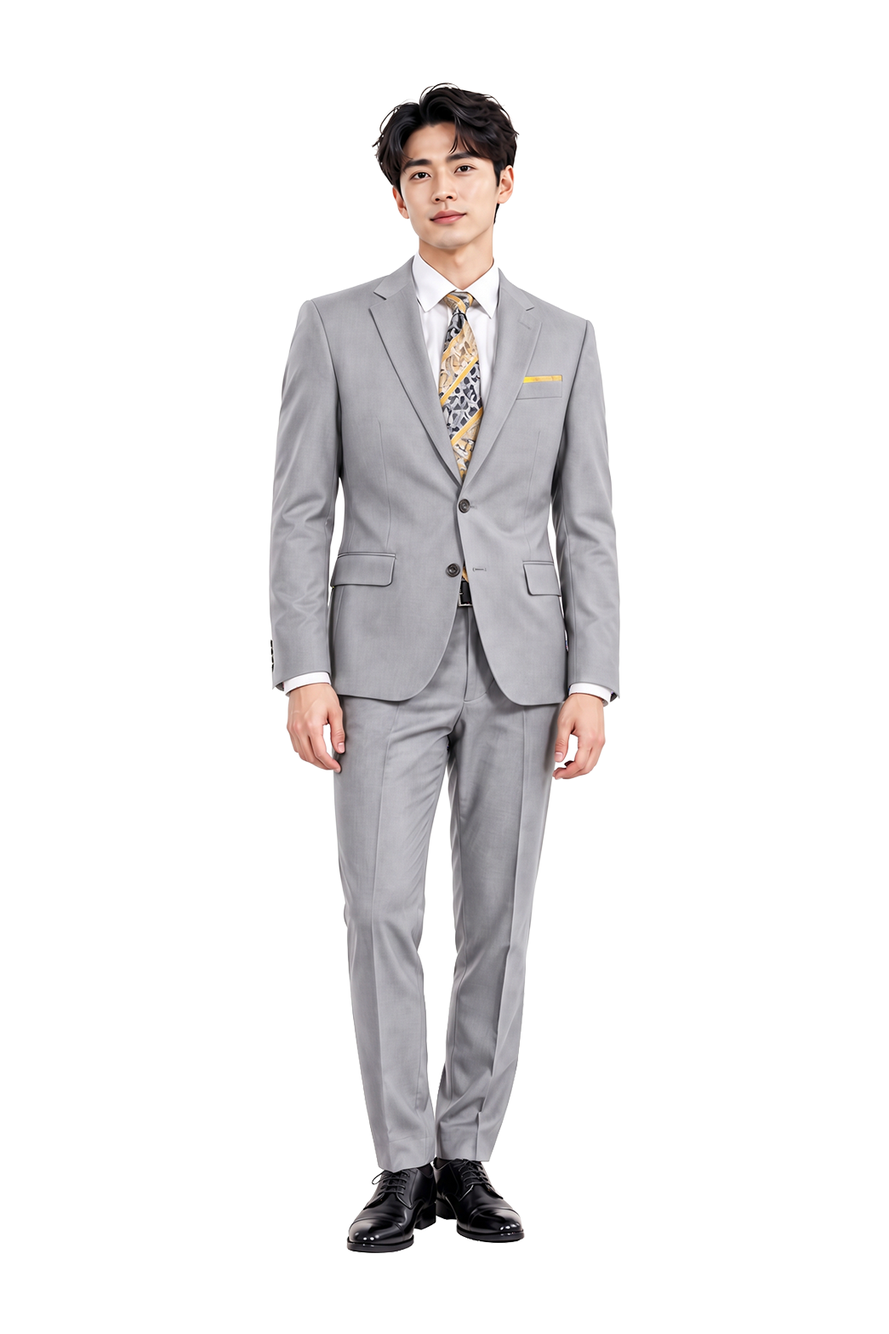
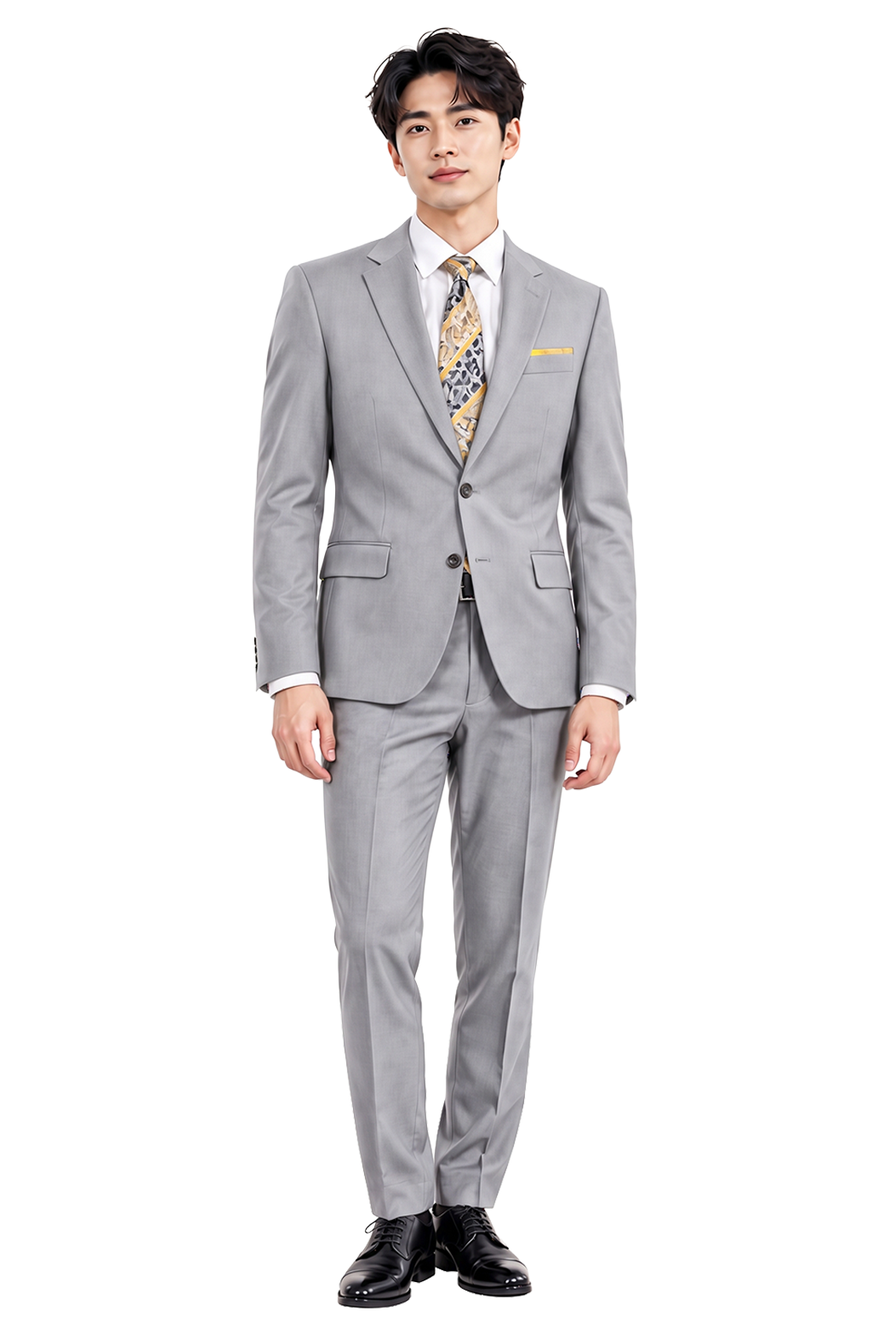
Update light gray suit photo and refresh image cache

Changed region(s): [[0.2756, 0.0, 0.7349, 0.9802]]

diff --git a/projects/index.html b/projects/index.html
@@ -9,7 +9,7 @@
 <a class="header-phone" href="tel:+886227891048"><span aria-hidden="true">☎</span> 02-2789-1048</a><a class="header-cta" href="../contact/index.html">立即詢價 <span aria-hidden="true">↗</span></a>
 </div></header><main id="main"><section class="page-intro container"><nav class="breadcrumb" aria-label="麵包屑"><a href="../index.html">首頁</a><span aria-hidden="true">/</span><span>作品案例</span></nav><p class="eyebrow">THE MAGGIO COLLECTION</p><h1>不同的需求<br>各有合適的樣子</h1><div class="intro-bottom"><p>從個人風格到團隊形象<br>在既有作品中找到你的下一個靈感</p><span class="collection-label">PERSONAL / CORPORATE / OUTERWEAR</span></div></section>
 <section class="client-section container" aria-labelledby="client-title"><div class="client-heading"><div><p class="eyebrow">OUR TRACK RECORD</p><h2 id="client-title">歷年履約實績</h2></div><div class="client-controls"><button type="button" data-client-prev aria-label="上一組履約實績">←</button><button type="button" data-client-pause aria-pressed="false">暫停輪播</button><button type="button" data-client-next aria-label="下一組履約實績">→</button></div></div><ul class="client-track" tabindex="0" aria-label="歷年履約單位標誌 可左右滑動"><li><img src="../assets/client-logos/client-01.webp" alt="國泰金控" width="410" height="206" loading="lazy"></li><li><img src="../assets/client-logos/client-02.webp" alt="國泰人壽" width="410" height="206" loading="lazy"></li><li><img src="../assets/client-logos/client-03.webp" alt="國泰產險" width="410" height="206" loading="lazy"></li><li><img src="../assets/client-logos/client-04.webp" alt="第一銀行" width="410" height="206" loading="lazy"></li><li><img src="../assets/client-logos/client-05.webp" alt="華南銀行" width="410" height="206" loading="lazy"></li><li><img src="../assets/client-logos/client-06.webp" alt="中華電信" width="410" height="206" loading="lazy"></li><li><img src="../assets/client-logos/client-07.webp" alt="彰化銀行" width="410" height="206" loading="lazy"></li><li><img src="../assets/client-logos/client-08.webp" alt="高雄銀行" width="410" height="206" loading="lazy"></li><li><img src="../assets/client-logos/client-09.webp" alt="台北富邦銀行" width="410" height="206" loading="lazy"></li><li><img src="../assets/client-logos/client-10.webp" alt="富邦證券" width="410" height="206" loading="lazy"></li><li><img src="../assets/client-logos/client-11.webp" alt="富邦建設" width="410" height="206" loading="lazy"></li><li><img src="../assets/client-logos/client-12.webp" alt="國票金控" width="410" height="206" loading="lazy"></li><li><img src="../assets/client-logos/client-13.webp" alt="台灣世曦" width="410" height="206" loading="lazy"></li><li><img src="../assets/client-logos/client-14.webp" alt="兆豐國際商業銀行" width="410" height="206" loading="lazy"></li><li><img src="../assets/client-logos/client-15.webp" alt="華南產物保險" width="410" height="206" loading="lazy"></li><li><img src="../assets/client-logos/client-16.webp" alt="華南永昌證券" width="410" height="206" loading="lazy"></li><li><img src="../assets/client-logos/client-17.webp" alt="櫃買中心" width="410" height="206" loading="lazy"></li><li><img src="../assets/client-logos/client-18.webp" alt="中小企業信用保證基金" width="410" height="206" loading="lazy"></li><li><img src="../assets/client-logos/client-19.webp" alt="統一綜合證券" width="410" height="206" loading="lazy"></li><li><img src="../assets/client-logos/client-20.webp" alt="臺灣證券交易所" width="410" height="206" loading="lazy"></li></ul><p class="client-note">資料來源為野木提供的歷年履約實績　可左右滑動瀏覽</p></section><nav class="collection-nav" aria-label="作品分類"><div class="container"><a href="#proposals">制服企劃 <span>NEW</span></a><a href="#personal">個人訂製 <span>01</span></a><a href="#corporate">企業制服 <span>02</span></a><a href="#outerwear">機能外套 <span>03</span></a></div></nav>
-<section class="section pale" id="proposals"><div class="container"><div class="section-heading"><p class="eyebrow">UNIFORM PROPOSALS</p><h2>從企劃看見團隊穿著的可能</h2><p>四份制服企劃完整收錄</p></div><p class="source-note">以下為野木提供的企劃資料，供款式與搭配參考，不代表已成交或現行供貨。原始資料中的材質、機能、品牌及服務條件，請依實際方案洽詢確認。</p><div class="brochure-list"><article class="brochure-card" id="twse-men"><div class="brochure-overview"><img class="brochure-cover" src="../assets/brochures/twse-men-1.webp" alt="證交所男生制服企劃封面" loading="lazy"><div class="brochure-copy"><p class="eyebrow">PROPOSAL / 01</p><h3>證交所男生制服企劃</h3><p class="brochure-subtitle">西裝與襯衫的完整穿搭</p><p>以深色西裝與淺色襯衫呈現專業形象收錄西裝剪裁、內裡製作、西褲細節與皮鞋搭配</p><a class="text-link" href="../assets/brochures/twse-men.pdf" target="_blank" rel="noopener">閱讀完整 PDF · 10 頁 ↗</a><a class="text-link" href="../assets/brochures/twse-men.pdf" download>下載企劃書 ↓</a></div></div><details class="brochure-details"><summary>展開逐頁瀏覽 <span>10 頁 ＋</span></summary><div class="brochure-pages"><figure><a href="../assets/brochures/twse-men-1.webp" target="_blank" rel="noopener" aria-label="開啟證交所男生制服企劃第 1 頁大圖"><img src="../assets/brochures/twse-men-1.webp" alt="證交所男生制服企劃第 1 頁原始企劃內容" loading="lazy"></a><figcaption>第 1 頁 / 10 頁 · 點圖查看大圖 ↗</figcaption></figure><figure><a href="../assets/brochures/twse-men-2.webp" target="_blank" rel="noopener" aria-label="開啟證交所男生制服企劃第 2 頁大圖"><img src="../assets/brochures/twse-men-2.webp" alt="證交所男生制服企劃第 2 頁原始企劃內容" loading="lazy"></a><figcaption>第 2 頁 / 10 頁 · 點圖查看大圖 ↗</figcaption></figure><figure><a href="../assets/brochures/twse-men-3.webp" target="_blank" rel="noopener" aria-label="開啟證交所男生制服企劃第 3 頁大圖"><img src="../assets/brochures/twse-men-3.webp" alt="證交所男生制服企劃第 3 頁原始企劃內容" loading="lazy"></a><figcaption>第 3 頁 / 10 頁 · 點圖查看大圖 ↗</figcaption></figure><figure><a href="../assets/brochures/twse-men-4.webp" target="_blank" rel="noopener" aria-label="開啟證交所男生制服企劃第 4 頁大圖"><img src="../assets/brochures/twse-men-4.webp" alt="證交所男生制服企劃第 4 頁原始企劃內容" loading="lazy"></a><figcaption>第 4 頁 / 10 頁 · 點圖查看大圖 ↗</figcaption></figure><figure><a href="../assets/brochures/twse-men-5.webp" target="_blank" rel="noopener" aria-label="開啟證交所男生制服企劃第 5 頁大圖"><img src="../assets/brochures/twse-men-5.webp" alt="證交所男生制服企劃第 5 頁原始企劃內容" loading="lazy"></a><figcaption>第 5 頁 / 10 頁 · 點圖查看大圖 ↗</figcaption></figure><figure><a href="../assets/brochures/twse-men-6.webp" target="_blank" rel="noopener" aria-label="開啟證交所男生制服企劃第 6 頁大圖"><img src="../assets/brochures/twse-men-6.webp" alt="證交所男生制服企劃第 6 頁原始企劃內容" loading="lazy"></a><figcaption>第 6 頁 / 10 頁 · 點圖查看大圖 ↗</figcaption></figure><figure><a href="../assets/brochures/twse-men-7.webp" target="_blank" rel="noopener" aria-label="開啟證交所男生制服企劃第 7 頁大圖"><img src="../assets/brochures/twse-men-7.webp" alt="證交所男生制服企劃第 7 頁原始企劃內容" loading="lazy"></a><figcaption>第 7 頁 / 10 頁 · 點圖查看大圖 ↗</figcaption></figure><figure><a href="../assets/brochures/twse-men-8.webp" target="_blank" rel="noopener" aria-label="開啟證交所男生制服企劃第 8 頁大圖"><img src="../assets/brochures/twse-men-8.webp" alt="證交所男生制服企劃第 8 頁原始企劃內容" loading="lazy"></a><figcaption>第 8 頁 / 10 頁 · 點圖查看大圖 ↗</figcaption></figure><figure><a href="../assets/brochures/twse-men-9.webp" target="_blank" rel="noopener" aria-label="開啟證交所男生制服企劃第 9 頁大圖"><img src="../assets/brochures/twse-men-9.webp" alt="證交所男生制服企劃第 9 頁原始企劃內容" loading="lazy"></a><figcaption>第 9 頁 / 10 頁 · 點圖查看大圖 ↗</figcaption></figure><figure><a href="../assets/brochures/twse-men-10.webp" target="_blank" rel="noopener" aria-label="開啟證交所男生制服企劃第 10 頁大圖"><img src="../assets/brochures/twse-men-10.webp" alt="證交所男生制服企劃第 10 頁原始企劃內容" loading="lazy"></a><figcaption>第 10 頁 / 10 頁 · 點圖查看大圖 ↗</figcaption></figure></div></details></article><article class="brochure-card" id="huanan-women"><div class="brochure-overview"><img class="brochure-cover" src="../assets/brochures/huanan-women-1.webp" alt="華南女性制服企劃封面" loading="lazy"><div class="brochure-copy"><p class="eyebrow">PROPOSAL / 02</p><h3>華南女性制服企劃</h3><p class="brochure-subtitle">紫色系的多層次制服搭配</p><p>以紫色系連結外套、背心、裙裝與褲裝呈現襯衫、針織單品及面料樣本的搭配規劃</p><a class="text-link" href="../assets/brochures/huanan-women.pdf" target="_blank" rel="noopener">閱讀完整 PDF · 4 頁 ↗</a><a class="text-link" href="../assets/brochures/huanan-women.pdf" download>下載企劃書 ↓</a></div></div><details class="brochure-details"><summary>展開逐頁瀏覽 <span>4 頁 ＋</span></summary><div class="brochure-pages"><figure><a href="../assets/brochures/huanan-women-1.webp" target="_blank" rel="noopener" aria-label="開啟華南女性制服企劃第 1 頁大圖"><img src="../assets/brochures/huanan-women-1.webp" alt="華南女性制服企劃第 1 頁原始企劃內容" loading="lazy"></a><figcaption>第 1 頁 / 4 頁 · 點圖查看大圖 ↗</figcaption></figure><figure><a href="../assets/brochures/huanan-women-2.webp" target="_blank" rel="noopener" aria-label="開啟華南女性制服企劃第 2 頁大圖"><img src="../assets/brochures/huanan-women-2.webp" alt="華南女性制服企劃第 2 頁原始企劃內容" loading="lazy"></a><figcaption>第 2 頁 / 4 頁 · 點圖查看大圖 ↗</figcaption></figure><figure><a href="../assets/brochures/huanan-women-3.webp" target="_blank" rel="noopener" aria-label="開啟華南女性制服企劃第 3 頁大圖"><img src="../assets/brochures/huanan-women-3.webp" alt="華南女性制服企劃第 3 頁原始企劃內容" loading="lazy"></a><figcaption>第 3 頁 / 4 頁 · 點圖查看大圖 ↗</figcaption></figure><figure><a href="../assets/brochures/huanan-women-4.webp" target="_blank" rel="noopener" aria-label="開啟華南女性制服企劃第 4 頁大圖"><img src="../assets/brochures/huanan-women-4.webp" alt="華南女性制服企劃第 4 頁原始企劃內容" loading="lazy"></a><figcaption>第 4 頁 / 4 頁 · 點圖查看大圖 ↗</figcaption></figure></div></details></article><article class="brochure-card" id="huanan-men"><div class="brochure-overview"><img class="brochure-cover" src="../assets/brochures/huanan-men-1.webp" alt="華南男性制服企劃封面" loading="lazy"><div class="brochure-copy"><p class="eyebrow">PROPOSAL / 03</p><h3>華南男性制服企劃</h3><p class="brochure-subtitle">從西裝到針織的團隊形象</p><p>以深藍西裝搭配淺色襯衫延伸背心與針織單品並收錄面料與製作細節</p><a class="text-link" href="../assets/brochures/huanan-men.pdf" target="_blank" rel="noopener">閱讀完整 PDF · 4 頁 ↗</a><a class="text-link" href="../assets/brochures/huanan-men.pdf" download>下載企劃書 ↓</a></div></div><details class="brochure-details"><summary>展開逐頁瀏覽 <span>4 頁 ＋</span></summary><div class="brochure-pages"><figure><a href="../assets/brochures/huanan-men-1.webp" target="_blank" rel="noopener" aria-label="開啟華南男性制服企劃第 1 頁大圖"><img src="../assets/brochures/huanan-men-1.webp" alt="華南男性制服企劃第 1 頁原始企劃內容" loading="lazy"></a><figcaption>第 1 頁 / 4 頁 · 點圖查看大圖 ↗</figcaption></figure><figure><a href="../assets/brochures/huanan-men-2.webp" target="_blank" rel="noopener" aria-label="開啟華南男性制服企劃第 2 頁大圖"><img src="../assets/brochures/huanan-men-2.webp" alt="華南男性制服企劃第 2 頁原始企劃內容" loading="lazy"></a><figcaption>第 2 頁 / 4 頁 · 點圖查看大圖 ↗</figcaption></figure><figure><a href="../assets/brochures/huanan-men-3.webp" target="_blank" rel="noopener" aria-label="開啟華南男性制服企劃第 3 頁大圖"><img src="../assets/brochures/huanan-men-3.webp" alt="華南男性制服企劃第 3 頁原始企劃內容" loading="lazy"></a><figcaption>第 3 頁 / 4 頁 · 點圖查看大圖 ↗</figcaption></figure><figure><a href="../assets/brochures/huanan-men-4.webp" target="_blank" rel="noopener" aria-label="開啟華南男性制服企劃第 4 頁大圖"><img src="../assets/brochures/huanan-men-4.webp" alt="華南男性制服企劃第 4 頁原始企劃內容" loading="lazy"></a><figcaption>第 4 頁 / 4 頁 · 點圖查看大圖 ↗</figcaption></figure></div></details></article><article class="brochure-card" id="twse-women"><div class="brochure-overview"><img class="brochure-cover" src="../assets/brochures/twse-women-1.webp" alt="證交所女生休閒服企劃封面" loading="lazy"><div class="brochure-copy"><p class="eyebrow">PROPOSAL / 04</p><h3>證交所女生休閒服企劃</h3><p class="brochure-subtitle">正式工作以外的穿著選擇</p><p>收錄兩件式外套、軟殼外套、牛仔外套與休閒褲呈現不同季節及工作情境的穿搭方向</p><a class="text-link" href="../assets/brochures/twse-women.pdf" target="_blank" rel="noopener">閱讀完整 PDF · 10 頁 ↗</a><a class="text-link" href="../assets/brochures/twse-women.pdf" download>下載企劃書 ↓</a></div></div><details class="brochure-details"><summary>展開逐頁瀏覽 <span>10 頁 ＋</span></summary><div class="brochure-pages"><figure><a href="../assets/brochures/twse-women-1.webp" target="_blank" rel="noopener" aria-label="開啟證交所女生休閒服企劃第 1 頁大圖"><img src="../assets/brochures/twse-women-1.webp" alt="證交所女生休閒服企劃第 1 頁原始企劃內容" loading="lazy"></a><figcaption>第 1 頁 / 10 頁 · 點圖查看大圖 ↗</figcaption></figure><figure><a href="../assets/brochures/twse-women-2.webp" target="_blank" rel="noopener" aria-label="開啟證交所女生休閒服企劃第 2 頁大圖"><img src="../assets/brochures/twse-women-2.webp" alt="證交所女生休閒服企劃第 2 頁原始企劃內容" loading="lazy"></a><figcaption>第 2 頁 / 10 頁 · 點圖查看大圖 ↗</figcaption></figure><figure><a href="../assets/brochures/twse-women-3.webp" target="_blank" rel="noopener" aria-label="開啟證交所女生休閒服企劃第 3 頁大圖"><img src="../assets/brochures/twse-women-3.webp" alt="證交所女生休閒服企劃第 3 頁原始企劃內容" loading="lazy"></a><figcaption>第 3 頁 / 10 頁 · 點圖查看大圖 ↗</figcaption></figure><figure><a href="../assets/brochures/twse-women-4.webp" target="_blank" rel="noopener" aria-label="開啟證交所女生休閒服企劃第 4 頁大圖"><img src="../assets/brochures/twse-women-4.webp" alt="證交所女生休閒服企劃第 4 頁原始企劃內容" loading="lazy"></a><figcaption>第 4 頁 / 10 頁 · 點圖查看大圖 ↗</figcaption></figure><figure><a href="../assets/brochures/twse-women-5.webp" target="_blank" rel="noopener" aria-label="開啟證交所女生休閒服企劃第 5 頁大圖"><img src="../assets/brochures/twse-women-5.webp" alt="證交所女生休閒服企劃第 5 頁原始企劃內容" loading="lazy"></a><figcaption>第 5 頁 / 10 頁 · 點圖查看大圖 ↗</figcaption></figure><figure><a href="../assets/brochures/twse-women-6.webp" target="_blank" rel="noopener" aria-label="開啟證交所女生休閒服企劃第 6 頁大圖"><img src="../assets/brochures/twse-women-6.webp" alt="證交所女生休閒服企劃第 6 頁原始企劃內容" loading="lazy"></a><figcaption>第 6 頁 / 10 頁 · 點圖查看大圖 ↗</figcaption></figure><figure><a href="../assets/brochures/twse-women-7.webp" target="_blank" rel="noopener" aria-label="開啟證交所女生休閒服企劃第 7 頁大圖"><img src="../assets/brochures/twse-women-7.webp" alt="證交所女生休閒服企劃第 7 頁原始企劃內容" loading="lazy"></a><figcaption>第 7 頁 / 10 頁 · 點圖查看大圖 ↗</figcaption></figure><figure><a href="../assets/brochures/twse-women-8.webp" target="_blank" rel="noopener" aria-label="開啟證交所女生休閒服企劃第 8 頁大圖"><img src="../assets/brochures/twse-women-8.webp" alt="證交所女生休閒服企劃第 8 頁原始企劃內容" loading="lazy"></a><figcaption>第 8 頁 / 10 頁 · 點圖查看大圖 ↗</figcaption></figure><figure><a href="../assets/brochures/twse-women-9.webp" target="_blank" rel="noopener" aria-label="開啟證交所女生休閒服企劃第 9 頁大圖"><img src="../assets/brochures/twse-women-9.webp" alt="證交所女生休閒服企劃第 9 頁原始企劃內容" loading="lazy"></a><figcaption>第 9 頁 / 10 頁 · 點圖查看大圖 ↗</figcaption></figure><figure><a href="../assets/brochures/twse-women-10.webp" target="_blank" rel="noopener" aria-label="開啟證交所女生休閒服企劃第 10 頁大圖"><img src="../assets/brochures/twse-women-10.webp" alt="證交所女生休閒服企劃第 10 頁原始企劃內容" loading="lazy"></a><figcaption>第 10 頁 / 10 頁 · 點圖查看大圖 ↗</figcaption></figure></div></details></article></div></div></section><section class="section container" id="personal"><div class="collection-heading"><span class="collection-number">01</span><div class="section-heading"><p class="eyebrow">PERSONAL TAILORING</p><h2>穿出自己的風格</h2></div><a class="text-link" href="../bespoke/index.html">個人訂製服務 ↗</a></div><div class="project-grid"><article class="project-card"><a class="project-photo" href="../contact/index.html?service=bespoke" aria-label="詢問淺灰西服"><img src="../assets/images/light gray.webp" alt="淺灰西服" class="" loading="lazy" decoding="async" width="1200" height="900"><span class="project-hover">詢問此類款式 ↗</span></a><div class="project-caption"><p class="eyebrow">PERSONAL 01</p><h3>淺灰西服</h3><p>輕盈色調與俐落輪廓的穿著參考</p></div></article><article class="project-card"><a class="project-photo" href="../contact/index.html?service=bespoke" aria-label="詢問經典深色西服"><img src="../assets/images/original-03.webp" alt="經典深色西服" class="" loading="lazy" decoding="async" width="1200" height="900"><span class="project-hover">詢問此類款式 ↗</span></a><div class="project-caption"><p class="eyebrow">PERSONAL 02</p><h3>經典深色西服</h3><p>適合正式場合的穩重色系</p></div></article><article class="project-card"><a class="project-photo" href="../contact/index.html?service=bespoke" aria-label="詢問正式禮服搭配"><img src="../assets/images/original-04.webp" alt="正式禮服搭配" class="" loading="lazy" decoding="async" width="1200" height="900"><span class="project-hover">詢問此類款式 ↗</span></a><div class="project-caption"><p class="eyebrow">PERSONAL 03</p><h3>正式禮服搭配</h3><p>以領結與細節搭配回應重要時刻</p></div></article></div></section>
+<section class="section pale" id="proposals"><div class="container"><div class="section-heading"><p class="eyebrow">UNIFORM PROPOSALS</p><h2>從企劃看見團隊穿著的可能</h2><p>四份制服企劃完整收錄</p></div><p class="source-note">以下為野木提供的企劃資料，供款式與搭配參考，不代表已成交或現行供貨。原始資料中的材質、機能、品牌及服務條件，請依實際方案洽詢確認。</p><div class="brochure-list"><article class="brochure-card" id="twse-men"><div class="brochure-overview"><img class="brochure-cover" src="../assets/brochures/twse-men-1.webp" alt="證交所男生制服企劃封面" loading="lazy"><div class="brochure-copy"><p class="eyebrow">PROPOSAL / 01</p><h3>證交所男生制服企劃</h3><p class="brochure-subtitle">西裝與襯衫的完整穿搭</p><p>以深色西裝與淺色襯衫呈現專業形象收錄西裝剪裁、內裡製作、西褲細節與皮鞋搭配</p><a class="text-link" href="../assets/brochures/twse-men.pdf" target="_blank" rel="noopener">閱讀完整 PDF · 10 頁 ↗</a><a class="text-link" href="../assets/brochures/twse-men.pdf" download>下載企劃書 ↓</a></div></div><details class="brochure-details"><summary>展開逐頁瀏覽 <span>10 頁 ＋</span></summary><div class="brochure-pages"><figure><a href="../assets/brochures/twse-men-1.webp" target="_blank" rel="noopener" aria-label="開啟證交所男生制服企劃第 1 頁大圖"><img src="../assets/brochures/twse-men-1.webp" alt="證交所男生制服企劃第 1 頁原始企劃內容" loading="lazy"></a><figcaption>第 1 頁 / 10 頁 · 點圖查看大圖 ↗</figcaption></figure><figure><a href="../assets/brochures/twse-men-2.webp" target="_blank" rel="noopener" aria-label="開啟證交所男生制服企劃第 2 頁大圖"><img src="../assets/brochures/twse-men-2.webp" alt="證交所男生制服企劃第 2 頁原始企劃內容" loading="lazy"></a><figcaption>第 2 頁 / 10 頁 · 點圖查看大圖 ↗</figcaption></figure><figure><a href="../assets/brochures/twse-men-3.webp" target="_blank" rel="noopener" aria-label="開啟證交所男生制服企劃第 3 頁大圖"><img src="../assets/brochures/twse-men-3.webp" alt="證交所男生制服企劃第 3 頁原始企劃內容" loading="lazy"></a><figcaption>第 3 頁 / 10 頁 · 點圖查看大圖 ↗</figcaption></figure><figure><a href="../assets/brochures/twse-men-4.webp" target="_blank" rel="noopener" aria-label="開啟證交所男生制服企劃第 4 頁大圖"><img src="../assets/brochures/twse-men-4.webp" alt="證交所男生制服企劃第 4 頁原始企劃內容" loading="lazy"></a><figcaption>第 4 頁 / 10 頁 · 點圖查看大圖 ↗</figcaption></figure><figure><a href="../assets/brochures/twse-men-5.webp" target="_blank" rel="noopener" aria-label="開啟證交所男生制服企劃第 5 頁大圖"><img src="../assets/brochures/twse-men-5.webp" alt="證交所男生制服企劃第 5 頁原始企劃內容" loading="lazy"></a><figcaption>第 5 頁 / 10 頁 · 點圖查看大圖 ↗</figcaption></figure><figure><a href="../assets/brochures/twse-men-6.webp" target="_blank" rel="noopener" aria-label="開啟證交所男生制服企劃第 6 頁大圖"><img src="../assets/brochures/twse-men-6.webp" alt="證交所男生制服企劃第 6 頁原始企劃內容" loading="lazy"></a><figcaption>第 6 頁 / 10 頁 · 點圖查看大圖 ↗</figcaption></figure><figure><a href="../assets/brochures/twse-men-7.webp" target="_blank" rel="noopener" aria-label="開啟證交所男生制服企劃第 7 頁大圖"><img src="../assets/brochures/twse-men-7.webp" alt="證交所男生制服企劃第 7 頁原始企劃內容" loading="lazy"></a><figcaption>第 7 頁 / 10 頁 · 點圖查看大圖 ↗</figcaption></figure><figure><a href="../assets/brochures/twse-men-8.webp" target="_blank" rel="noopener" aria-label="開啟證交所男生制服企劃第 8 頁大圖"><img src="../assets/brochures/twse-men-8.webp" alt="證交所男生制服企劃第 8 頁原始企劃內容" loading="lazy"></a><figcaption>第 8 頁 / 10 頁 · 點圖查看大圖 ↗</figcaption></figure><figure><a href="../assets/brochures/twse-men-9.webp" target="_blank" rel="noopener" aria-label="開啟證交所男生制服企劃第 9 頁大圖"><img src="../assets/brochures/twse-men-9.webp" alt="證交所男生制服企劃第 9 頁原始企劃內容" loading="lazy"></a><figcaption>第 9 頁 / 10 頁 · 點圖查看大圖 ↗</figcaption></figure><figure><a href="../assets/brochures/twse-men-10.webp" target="_blank" rel="noopener" aria-label="開啟證交所男生制服企劃第 10 頁大圖"><img src="../assets/brochures/twse-men-10.webp" alt="證交所男生制服企劃第 10 頁原始企劃內容" loading="lazy"></a><figcaption>第 10 頁 / 10 頁 · 點圖查看大圖 ↗</figcaption></figure></div></details></article><article class="brochure-card" id="huanan-women"><div class="brochure-overview"><img class="brochure-cover" src="../assets/brochures/huanan-women-1.webp" alt="華南女性制服企劃封面" loading="lazy"><div class="brochure-copy"><p class="eyebrow">PROPOSAL / 02</p><h3>華南女性制服企劃</h3><p class="brochure-subtitle">紫色系的多層次制服搭配</p><p>以紫色系連結外套、背心、裙裝與褲裝呈現襯衫、針織單品及面料樣本的搭配規劃</p><a class="text-link" href="../assets/brochures/huanan-women.pdf" target="_blank" rel="noopener">閱讀完整 PDF · 4 頁 ↗</a><a class="text-link" href="../assets/brochures/huanan-women.pdf" download>下載企劃書 ↓</a></div></div><details class="brochure-details"><summary>展開逐頁瀏覽 <span>4 頁 ＋</span></summary><div class="brochure-pages"><figure><a href="../assets/brochures/huanan-women-1.webp" target="_blank" rel="noopener" aria-label="開啟華南女性制服企劃第 1 頁大圖"><img src="../assets/brochures/huanan-women-1.webp" alt="華南女性制服企劃第 1 頁原始企劃內容" loading="lazy"></a><figcaption>第 1 頁 / 4 頁 · 點圖查看大圖 ↗</figcaption></figure><figure><a href="../assets/brochures/huanan-women-2.webp" target="_blank" rel="noopener" aria-label="開啟華南女性制服企劃第 2 頁大圖"><img src="../assets/brochures/huanan-women-2.webp" alt="華南女性制服企劃第 2 頁原始企劃內容" loading="lazy"></a><figcaption>第 2 頁 / 4 頁 · 點圖查看大圖 ↗</figcaption></figure><figure><a href="../assets/brochures/huanan-women-3.webp" target="_blank" rel="noopener" aria-label="開啟華南女性制服企劃第 3 頁大圖"><img src="../assets/brochures/huanan-women-3.webp" alt="華南女性制服企劃第 3 頁原始企劃內容" loading="lazy"></a><figcaption>第 3 頁 / 4 頁 · 點圖查看大圖 ↗</figcaption></figure><figure><a href="../assets/brochures/huanan-women-4.webp" target="_blank" rel="noopener" aria-label="開啟華南女性制服企劃第 4 頁大圖"><img src="../assets/brochures/huanan-women-4.webp" alt="華南女性制服企劃第 4 頁原始企劃內容" loading="lazy"></a><figcaption>第 4 頁 / 4 頁 · 點圖查看大圖 ↗</figcaption></figure></div></details></article><article class="brochure-card" id="huanan-men"><div class="brochure-overview"><img class="brochure-cover" src="../assets/brochures/huanan-men-1.webp" alt="華南男性制服企劃封面" loading="lazy"><div class="brochure-copy"><p class="eyebrow">PROPOSAL / 03</p><h3>華南男性制服企劃</h3><p class="brochure-subtitle">從西裝到針織的團隊形象</p><p>以深藍西裝搭配淺色襯衫延伸背心與針織單品並收錄面料與製作細節</p><a class="text-link" href="../assets/brochures/huanan-men.pdf" target="_blank" rel="noopener">閱讀完整 PDF · 4 頁 ↗</a><a class="text-link" href="../assets/brochures/huanan-men.pdf" download>下載企劃書 ↓</a></div></div><details class="brochure-details"><summary>展開逐頁瀏覽 <span>4 頁 ＋</span></summary><div class="brochure-pages"><figure><a href="../assets/brochures/huanan-men-1.webp" target="_blank" rel="noopener" aria-label="開啟華南男性制服企劃第 1 頁大圖"><img src="../assets/brochures/huanan-men-1.webp" alt="華南男性制服企劃第 1 頁原始企劃內容" loading="lazy"></a><figcaption>第 1 頁 / 4 頁 · 點圖查看大圖 ↗</figcaption></figure><figure><a href="../assets/brochures/huanan-men-2.webp" target="_blank" rel="noopener" aria-label="開啟華南男性制服企劃第 2 頁大圖"><img src="../assets/brochures/huanan-men-2.webp" alt="華南男性制服企劃第 2 頁原始企劃內容" loading="lazy"></a><figcaption>第 2 頁 / 4 頁 · 點圖查看大圖 ↗</figcaption></figure><figure><a href="../assets/brochures/huanan-men-3.webp" target="_blank" rel="noopener" aria-label="開啟華南男性制服企劃第 3 頁大圖"><img src="../assets/brochures/huanan-men-3.webp" alt="華南男性制服企劃第 3 頁原始企劃內容" loading="lazy"></a><figcaption>第 3 頁 / 4 頁 · 點圖查看大圖 ↗</figcaption></figure><figure><a href="../assets/brochures/huanan-men-4.webp" target="_blank" rel="noopener" aria-label="開啟華南男性制服企劃第 4 頁大圖"><img src="../assets/brochures/huanan-men-4.webp" alt="華南男性制服企劃第 4 頁原始企劃內容" loading="lazy"></a><figcaption>第 4 頁 / 4 頁 · 點圖查看大圖 ↗</figcaption></figure></div></details></article><article class="brochure-card" id="twse-women"><div class="brochure-overview"><img class="brochure-cover" src="../assets/brochures/twse-women-1.webp" alt="證交所女生休閒服企劃封面" loading="lazy"><div class="brochure-copy"><p class="eyebrow">PROPOSAL / 04</p><h3>證交所女生休閒服企劃</h3><p class="brochure-subtitle">正式工作以外的穿著選擇</p><p>收錄兩件式外套、軟殼外套、牛仔外套與休閒褲呈現不同季節及工作情境的穿搭方向</p><a class="text-link" href="../assets/brochures/twse-women.pdf" target="_blank" rel="noopener">閱讀完整 PDF · 10 頁 ↗</a><a class="text-link" href="../assets/brochures/twse-women.pdf" download>下載企劃書 ↓</a></div></div><details class="brochure-details"><summary>展開逐頁瀏覽 <span>10 頁 ＋</span></summary><div class="brochure-pages"><figure><a href="../assets/brochures/twse-women-1.webp" target="_blank" rel="noopener" aria-label="開啟證交所女生休閒服企劃第 1 頁大圖"><img src="../assets/brochures/twse-women-1.webp" alt="證交所女生休閒服企劃第 1 頁原始企劃內容" loading="lazy"></a><figcaption>第 1 頁 / 10 頁 · 點圖查看大圖 ↗</figcaption></figure><figure><a href="../assets/brochures/twse-women-2.webp" target="_blank" rel="noopener" aria-label="開啟證交所女生休閒服企劃第 2 頁大圖"><img src="../assets/brochures/twse-women-2.webp" alt="證交所女生休閒服企劃第 2 頁原始企劃內容" loading="lazy"></a><figcaption>第 2 頁 / 10 頁 · 點圖查看大圖 ↗</figcaption></figure><figure><a href="../assets/brochures/twse-women-3.webp" target="_blank" rel="noopener" aria-label="開啟證交所女生休閒服企劃第 3 頁大圖"><img src="../assets/brochures/twse-women-3.webp" alt="證交所女生休閒服企劃第 3 頁原始企劃內容" loading="lazy"></a><figcaption>第 3 頁 / 10 頁 · 點圖查看大圖 ↗</figcaption></figure><figure><a href="../assets/brochures/twse-women-4.webp" target="_blank" rel="noopener" aria-label="開啟證交所女生休閒服企劃第 4 頁大圖"><img src="../assets/brochures/twse-women-4.webp" alt="證交所女生休閒服企劃第 4 頁原始企劃內容" loading="lazy"></a><figcaption>第 4 頁 / 10 頁 · 點圖查看大圖 ↗</figcaption></figure><figure><a href="../assets/brochures/twse-women-5.webp" target="_blank" rel="noopener" aria-label="開啟證交所女生休閒服企劃第 5 頁大圖"><img src="../assets/brochures/twse-women-5.webp" alt="證交所女生休閒服企劃第 5 頁原始企劃內容" loading="lazy"></a><figcaption>第 5 頁 / 10 頁 · 點圖查看大圖 ↗</figcaption></figure><figure><a href="../assets/brochures/twse-women-6.webp" target="_blank" rel="noopener" aria-label="開啟證交所女生休閒服企劃第 6 頁大圖"><img src="../assets/brochures/twse-women-6.webp" alt="證交所女生休閒服企劃第 6 頁原始企劃內容" loading="lazy"></a><figcaption>第 6 頁 / 10 頁 · 點圖查看大圖 ↗</figcaption></figure><figure><a href="../assets/brochures/twse-women-7.webp" target="_blank" rel="noopener" aria-label="開啟證交所女生休閒服企劃第 7 頁大圖"><img src="../assets/brochures/twse-women-7.webp" alt="證交所女生休閒服企劃第 7 頁原始企劃內容" loading="lazy"></a><figcaption>第 7 頁 / 10 頁 · 點圖查看大圖 ↗</figcaption></figure><figure><a href="../assets/brochures/twse-women-8.webp" target="_blank" rel="noopener" aria-label="開啟證交所女生休閒服企劃第 8 頁大圖"><img src="../assets/brochures/twse-women-8.webp" alt="證交所女生休閒服企劃第 8 頁原始企劃內容" loading="lazy"></a><figcaption>第 8 頁 / 10 頁 · 點圖查看大圖 ↗</figcaption></figure><figure><a href="../assets/brochures/twse-women-9.webp" target="_blank" rel="noopener" aria-label="開啟證交所女生休閒服企劃第 9 頁大圖"><img src="../assets/brochures/twse-women-9.webp" alt="證交所女生休閒服企劃第 9 頁原始企劃內容" loading="lazy"></a><figcaption>第 9 頁 / 10 頁 · 點圖查看大圖 ↗</figcaption></figure><figure><a href="../assets/brochures/twse-women-10.webp" target="_blank" rel="noopener" aria-label="開啟證交所女生休閒服企劃第 10 頁大圖"><img src="../assets/brochures/twse-women-10.webp" alt="證交所女生休閒服企劃第 10 頁原始企劃內容" loading="lazy"></a><figcaption>第 10 頁 / 10 頁 · 點圖查看大圖 ↗</figcaption></figure></div></details></article></div></div></section><section class="section container" id="personal"><div class="collection-heading"><span class="collection-number">01</span><div class="section-heading"><p class="eyebrow">PERSONAL TAILORING</p><h2>穿出自己的風格</h2></div><a class="text-link" href="../bespoke/index.html">個人訂製服務 ↗</a></div><div class="project-grid"><article class="project-card"><a class="project-photo" href="../contact/index.html?service=bespoke" aria-label="詢問淺灰西服"><img src="../assets/images/light gray.webp?v=2281c303127d" alt="淺灰西服" class="" loading="lazy" decoding="async" width="1200" height="900"><span class="project-hover">詢問此類款式 ↗</span></a><div class="project-caption"><p class="eyebrow">PERSONAL 01</p><h3>淺灰西服</h3><p>輕盈色調與俐落輪廓的穿著參考</p></div></article><article class="project-card"><a class="project-photo" href="../contact/index.html?service=bespoke" aria-label="詢問經典深色西服"><img src="../assets/images/original-03.webp" alt="經典深色西服" class="" loading="lazy" decoding="async" width="1200" height="900"><span class="project-hover">詢問此類款式 ↗</span></a><div class="project-caption"><p class="eyebrow">PERSONAL 02</p><h3>經典深色西服</h3><p>適合正式場合的穩重色系</p></div></article><article class="project-card"><a class="project-photo" href="../contact/index.html?service=bespoke" aria-label="詢問正式禮服搭配"><img src="../assets/images/original-04.webp" alt="正式禮服搭配" class="" loading="lazy" decoding="async" width="1200" height="900"><span class="project-hover">詢問此類款式 ↗</span></a><div class="project-caption"><p class="eyebrow">PERSONAL 03</p><h3>正式禮服搭配</h3><p>以領結與細節搭配回應重要時刻</p></div></article></div></section>
 <section class="section pale" id="corporate"><div class="container"><div class="collection-heading"><span class="collection-number">02</span><div class="section-heading"><p class="eyebrow">CORPORATE UNIFORMS</p><h2>團隊形象細節一致</h2></div><a class="text-link" href="../corporate-uniforms/index.html">企業制服服務 ↗</a></div><div class="project-grid uniforms"><article class="project-card"><a class="project-photo" href="../contact/index.html?service=corporate" aria-label="詢問女士套裝"><img src="../assets/images/winter-women-02.webp" alt="女士套裝" class="" loading="lazy" decoding="async" width="1200" height="900"><span class="project-hover">詢問此類款式 ↗</span></a><div class="project-caption"><p class="eyebrow">CORPORATE 01</p><h3>女士套裝</h3><p>外套與裙裝呈現完整的制服輪廓</p></div></article><article class="project-card"><a class="project-photo" href="../contact/index.html?service=corporate" aria-label="詢問背心制服"><img src="../assets/images/winter-women-04.webp" alt="背心制服" class="" loading="lazy" decoding="async" width="1200" height="900"><span class="project-hover">詢問此類款式 ↗</span></a><div class="project-caption"><p class="eyebrow">CORPORATE 02</p><h3>背心制服</h3><p>背心與襯衫搭配延伸職務與季節選擇</p></div></article><article class="project-card"><a class="project-photo" href="../contact/index.html?service=corporate" aria-label="詢問淺色制服搭配"><img src="../assets/images/original-15.webp" alt="淺色制服搭配" class="" loading="lazy" decoding="async" width="1200" height="900"><span class="project-hover">詢問此類款式 ↗</span></a><div class="project-caption"><p class="eyebrow">CORPORATE 03</p><h3>淺色制服搭配</h3><p>以較柔和的色彩呈現服務形象</p></div></article></div></div></section>
 <section class="section container" id="outerwear"><div class="collection-heading"><span class="collection-number">03</span><div class="section-heading"><p class="eyebrow">FUNCTIONAL OUTERWEAR</p><h2>向戶外延伸專業</h2></div><a class="text-link" href="../functional-outerwear/index.html">機能外套服務 ↗</a></div><div class="project-grid outerwear-grid"><article class="project-card"><a class="project-photo" href="../contact/index.html?service=outerwear" aria-label="詢問連帽機能外套"><img src="../assets/images/original-44.webp" alt="連帽機能外套" class="" loading="lazy" decoding="async" width="1200" height="900"><span class="project-hover">詢問此類款式 ↗</span></a><div class="project-caption"><p class="eyebrow">OUTERWEAR 01</p><h3>連帽機能外套</h3><p>中華電信男女外套歷年款式展示</p></div></article><article class="project-card"><a class="project-photo" href="../contact/index.html?service=outerwear" aria-label="詢問長版機能風衣"><img src="../assets/images/original-46.webp" alt="長版機能風衣" class="" loading="lazy" decoding="async" width="1200" height="900"><span class="project-hover">詢問此類款式 ↗</span></a><div class="project-caption"><p class="eyebrow">OUTERWEAR 02</p><h3>長版機能風衣</h3><p>防水透濕多功能風衣款式展示</p></div></article><article class="project-card"><a class="project-photo" href="../contact/index.html?service=outerwear" aria-label="詢問兩件式外套"><img src="../assets/images/original-48.webp" alt="兩件式外套" class="" loading="lazy" decoding="async" width="1200" height="900"><span class="project-hover">詢問此類款式 ↗</span></a><div class="project-caption"><p class="eyebrow">OUTERWEAR 03</p><h3>兩件式外套</h3><p>彰銀外套與保暖內搭歷年款式展示</p></div></article></div><p class="source-note">本頁為歷年作品與款式紀錄，不代表目前供貨或現行合作狀態；各款式細節以洽詢確認為準。</p></section><section class="cta-band"><div class="container cta-inner"><div><p class="eyebrow">LET’S MAKE IT YOURS</p><h2>有喜歡的方向？一起把想法具體化</h2><p>告訴我們你的需求一起找到合適的款式與製作方向</p></div><a class="button " href="../contact/index.html">聊聊你的需求<span aria-hidden="true">↗</span></a></div></section></main><footer class="site-footer"><div class="container footer-grid"><div class="footer-brand"><a class="brand" href="../index.html"><img class="brand-logo" src="../assets/images/logo.png?v=d0197b161d" alt="MAGGIO 野木國際開發有限公司" width="729" height="245"></a><p>讓每一份專業<br>都有合適的樣子</p><span class="footer-en">TAILORED FOR PEOPLE MADE FOR TEAMS</span></div>
 <div><h3>探索野木</h3><a href="../about/index.html">關於野木</a><a href="../projects/index.html">作品案例</a><a href="../contact/index.html">聯絡我們</a></div>

diff --git a/index.html b/index.html
@@ -11,7 +11,7 @@
 <div class="trust-strip"><div class="container"><span class="trust-label">細節裡的承諾</span><span>量身剪裁 <small>TAILORED FIT</small></span><span>團體規劃 <small>TEAM IDENTITY</small></span><span>製作工藝 <small>CRAFT & CARE</small></span><span>交付服務 <small>FROM START TO FINISH</small></span></div></div>
 <section class="style-guide"><div class="container guide-grid"><div class="guide-intro"><p class="eyebrow">FIND YOUR DIRECTION</p><h2>你的下一個場合<br>想穿出什麼樣子？</h2><p>選一個接近你的需求<br>找到合適的訂製方向</p><div class="guide-options" role="group" aria-label="選擇穿著需求"><button type="button" data-service="bespoke" aria-pressed="true">為自己找到合身風格 <span>01 ↗</span></button><button type="button" data-service="corporate" aria-pressed="false">為團隊建立共同形象 <span>02 ↗</span></button><button type="button" data-service="outerwear" aria-pressed="false">為戶外準備機能外層 <span>03 ↗</span></button></div></div><div class="guide-preview"><img src="./assets/images/original-03.webp" alt="個人西服穿著展示" class="guide-image" loading="lazy" decoding="async" width="1200" height="900"><div class="guide-preview-copy" aria-live="polite"><p class="guide-tag">01 / PERSONAL</p><h3 class="guide-title">屬於你自己的俐落</h3><p class="guide-description">從正式會面到重要時刻先找到適合身形與場合的剪裁再討論面料與細節</p><a class="text-link guide-link" href="./bespoke/index.html">探索個人量身訂製 ↗</a></div></div></div></section><section class="section container" id="services"><div class="section-heading"><p class="eyebrow">OUR SERVICES</p><h2>從一件訂製到團隊的自信</h2><p>不同的穿著需求同樣值得被細心對待</p></div><div class="service-grid"><a class="service-card" href="./bespoke/index.html"><div class="service-image"><img src="./assets/images/supplied-07.webp" alt="不同色系西服展示" class="" loading="lazy" decoding="async" width="1200" height="900"><span class="card-index">01 /</span></div><div class="service-body"><h3>個人量身訂製</h3><p>適合自己的剪裁穿出自在的風格</p><span class="text-link">探索服務 <span aria-hidden="true">↗</span></span></div></a><a class="service-card" href="./corporate-uniforms/index.html"><div class="service-image"><img src="./assets/images/hero.webp" alt="企業制服形象示意" class="" loading="lazy" decoding="async" width="1200" height="900"><span class="card-index">02 /</span></div><div class="service-body"><h3>企業團體制服</h3><p>從一個人的合身到整個團隊的一致</p><span class="text-link">探索服務 <span aria-hidden="true">↗</span></span></div></a><a class="service-card" href="./functional-outerwear/index.html"><div class="service-image"><img src="./assets/images/fabric.webp" alt="機能面料情境示意" class="" loading="lazy" decoding="async" width="1200" height="900"><span class="card-index">03 /</span></div><div class="service-body"><h3>機能外套</h3><p>考量工作與天氣兼顧形象與實穿</p><span class="text-link">探索服務 <span aria-hidden="true">↗</span></span></div></a></div></section>
 <section class="craft-section"><div class="container split"><div class="craft-visual"><img src="./assets/images/supplied-08.webp" alt="野木西服展示空間與不同色系的成衣陳列" class="" loading="lazy" decoding="async" width="1200" height="900"><div class="visual-caption"><span>MADE WITH CARE</span><p>好的服裝<br>在細節裡看得見</p></div></div><div class="split-copy"><p class="eyebrow">THE MAGGIO WAY</p><h2>從版型到交付<br>每個環節都用心</h2><p>服裝的質感，不只在第一眼。肩線是否自然、活動是否舒適、整體是否俐落，都來自對製作細節的重視。</p><p>野木以既有的打版、製作與整燙經驗，將穿著者的需求放進流程，讓個人風格與團隊形象都能被好好呈現。</p><div class="inline-values"><span>剪裁比例</span><span>面料搭配</span><span>交付整備</span></div><a class="text-link" href="./about/index.html">認識野木的製作理念 <span aria-hidden="true">↗</span></a></div></div></section>
-<section class="section container"><div class="heading-row"><div class="section-heading"><p class="eyebrow">SELECTED WORK</p><h2>在不同場合穿出合適的樣子</h2></div><a class="text-link" href="./projects/index.html">查看作品 <span aria-hidden="true">↗</span></a></div><div class="project-grid"><article class="project-card"><a class="project-photo" href="./contact/index.html?service=bespoke" aria-label="詢問淺灰西服"><img src="./assets/images/light gray.webp" alt="淺灰西服" class="" loading="lazy" decoding="async" width="1200" height="900"><span class="project-hover">詢問此類款式 ↗</span></a><div class="project-caption"><p class="eyebrow">PERSONAL / 個人訂製</p><h3>淺灰西服</h3><p>明亮色調呈現俐落而自然的比例</p></div></article><article class="project-card"><a class="project-photo" href="./contact/index.html?service=corporate"><img src="./assets/images/winter-women-02.webp" alt="灰色外套與長褲套裝" class="" loading="lazy" decoding="async" width="1200" height="900"><span class="project-hover">放大探索 ＋</span></a><div class="project-caption"><p class="eyebrow">CORPORATE / 團體制服</p><h3>女士制服套裝</h3><p>冬季套裝展現俐落而專業的團隊形象</p></div></article><article class="project-card"><a class="project-photo" href="./contact/index.html?service=outerwear" aria-label="詢問連帽機能風衣"><img src="./assets/images/original-46.webp" alt="連帽機能風衣" class="" loading="lazy" decoding="async" width="1200" height="900"><span class="project-hover">詢問此類款式 ↗</span></a><div class="project-caption"><p class="eyebrow">OUTERWEAR / 機能外套</p><h3>連帽機能風衣</h3><p>依工作場景討論外層與穿著配置</p></div></article></div><p class="source-note">歷年作品與款式參考，實際製作細節請洽詢確認。</p></section>
+<section class="section container"><div class="heading-row"><div class="section-heading"><p class="eyebrow">SELECTED WORK</p><h2>在不同場合穿出合適的樣子</h2></div><a class="text-link" href="./projects/index.html">查看作品 <span aria-hidden="true">↗</span></a></div><div class="project-grid"><article class="project-card"><a class="project-photo" href="./contact/index.html?service=bespoke" aria-label="詢問淺灰西服"><img src="./assets/images/light gray.webp?v=2281c303127d" alt="淺灰西服" class="" loading="lazy" decoding="async" width="1200" height="900"><span class="project-hover">詢問此類款式 ↗</span></a><div class="project-caption"><p class="eyebrow">PERSONAL / 個人訂製</p><h3>淺灰西服</h3><p>明亮色調呈現俐落而自然的比例</p></div></article><article class="project-card"><a class="project-photo" href="./contact/index.html?service=corporate"><img src="./assets/images/winter-women-02.webp" alt="灰色外套與長褲套裝" class="" loading="lazy" decoding="async" width="1200" height="900"><span class="project-hover">放大探索 ＋</span></a><div class="project-caption"><p class="eyebrow">CORPORATE / 團體制服</p><h3>女士制服套裝</h3><p>冬季套裝展現俐落而專業的團隊形象</p></div></article><article class="project-card"><a class="project-photo" href="./contact/index.html?service=outerwear" aria-label="詢問連帽機能風衣"><img src="./assets/images/original-46.webp" alt="連帽機能風衣" class="" loading="lazy" decoding="async" width="1200" height="900"><span class="project-hover">詢問此類款式 ↗</span></a><div class="project-caption"><p class="eyebrow">OUTERWEAR / 機能外套</p><h3>連帽機能風衣</h3><p>依工作場景討論外層與穿著配置</p></div></article></div><p class="source-note">歷年作品與款式參考，實際製作細節請洽詢確認。</p></section>
 <section class="section pale"><div class="container"><div class="section-heading"><p class="eyebrow">A SIMPLE PROCESS</p><h2>四個步驟走向合適的服裝</h2></div><ol class="steps"><li><span class="step-number">01</span><h3>需求諮詢</h3><p>從用途、品項與預計時程開始</p></li><li><span class="step-number">02</span><h3>面料與款式</h3><p>討論觸感、配色與版型方向</p></li><li><span class="step-number">03</span><h3>量身與製作</h3><p>依確認內容安排尺寸與製作</p></li><li><span class="step-number">04</span><h3>交付與服務</h3><p>完成整備說明後續照護方式</p></li></ol></div></section><section class="cta-band"><div class="container cta-inner"><div><p class="eyebrow">LET’S MAKE IT YOURS</p><h2>下一件服裝從一次對話開始</h2><p>告訴我們你的需求一起找到合適的款式與製作方向</p></div><a class="button " href="./contact/index.html">聊聊你的需求<span aria-hidden="true">↗</span></a></div></section></main><footer class="site-footer"><div class="container footer-grid"><div class="footer-brand"><a class="brand" href="./index.html"><img class="brand-logo" src="./assets/images/logo.png?v=d0197b161d" alt="MAGGIO 野木國際開發有限公司" width="729" height="245"></a><p>讓每一份專業<br>都有合適的樣子</p><span class="footer-en">TAILORED FOR PEOPLE MADE FOR TEAMS</span></div>
 <div><h3>探索野木</h3><a href="./about/index.html">關於野木</a><a href="./projects/index.html">作品案例</a><a href="./contact/index.html">聯絡我們</a></div>
 <div><h3>訂製服務</h3><a href="./bespoke/index.html">個人量身訂製</a><a href="./corporate-uniforms/index.html">企業團體制服</a><a href="./functional-outerwear/index.html">機能外套</a></div>

diff --git a/bespoke/index.html b/bespoke/index.html
@@ -7,7 +7,7 @@
 <div class="nav-dropdown"><button class="services-toggle" aria-expanded="false" aria-controls="service-nav">訂製服務 <span aria-hidden="true">⌄</span></button><div class="dropdown-panel" id="service-nav"><a href="../bespoke/index.html" aria-current="page">個人量身訂製</a><a href="../corporate-uniforms/index.html">企業團體制服</a><a href="../functional-outerwear/index.html">機能外套</a></div></div>
 <a href="../projects/index.html">作品案例</a><a href="../contact/index.html">聯絡我們</a></nav>
 <a class="header-phone" href="tel:+886227891048"><span aria-hidden="true">☎</span> 02-2789-1048</a><a class="header-cta" href="../contact/index.html">立即詢價 <span aria-hidden="true">↗</span></a>
-</div></header><main id="main"><section class="service-hero bespoke-hero"><div class="container"><nav class="breadcrumb" aria-label="麵包屑"><a href="../index.html">首頁</a><span aria-hidden="true">/</span><span>個人量身訂製</span></nav><div class="service-hero-grid"><div><p class="eyebrow">PERSONAL TAILORING</p><h1>合身<br>也合乎你的風格</h1><p>為日常的專業<br>也為值得記住的那一天</p><a class="button " href="../contact/index.html?service=bespoke">聊聊個人訂製<span aria-hidden="true">↗</span></a><span class="hero-small">西服・女士套裝・正式服裝</span></div><div class="portrait-pair"><div><img src="../assets/images/original-03.webp" alt="黑色西服個人訂製展示" class="" loading="eager" decoding="async" width="1200" height="900"></div><div><img src="../assets/images/light gray.webp" alt="淺灰西服個人訂製展示" class="" loading="eager" decoding="async" width="1200" height="900"></div></div></div></div></section>
+</div></header><main id="main"><section class="service-hero bespoke-hero"><div class="container"><nav class="breadcrumb" aria-label="麵包屑"><a href="../index.html">首頁</a><span aria-hidden="true">/</span><span>個人量身訂製</span></nav><div class="service-hero-grid"><div><p class="eyebrow">PERSONAL TAILORING</p><h1>合身<br>也合乎你的風格</h1><p>為日常的專業<br>也為值得記住的那一天</p><a class="button " href="../contact/index.html?service=bespoke">聊聊個人訂製<span aria-hidden="true">↗</span></a><span class="hero-small">西服・女士套裝・正式服裝</span></div><div class="portrait-pair"><div><img src="../assets/images/original-03.webp" alt="黑色西服個人訂製展示" class="" loading="eager" decoding="async" width="1200" height="900"></div><div><img src="../assets/images/light gray.webp?v=2281c303127d" alt="淺灰西服個人訂製展示" class="" loading="eager" decoding="async" width="1200" height="900"></div></div></div></div></section>
 <section class="section container"><div class="split intro-split"><div><p class="eyebrow">MADE FOR YOUR EVERYDAY</p><h2>先理解你的日常<br>再決定服裝的樣子</h2></div><div><p class="lead">好看的服裝也應該讓你穿得自在</p><p>從需要頻繁活動的工作日，到婚禮、典禮與正式會面，場合與習慣都會影響適合的版型。帶著你的想法或參考照片，讓我們從穿著需求一起討論。</p></div></div><div class="feature-grid spaced"><article class="feature"><span class="index">01</span><h3>日常商務西服</h3><p>以俐落輪廓與容易搭配的色系陪伴會議、工作與正式會面</p></article><article class="feature"><span class="index">02</span><h3>女士訂製套裝</h3><p>依穿著需求討論外套、背心、裙裝或褲裝讓整體比例更適合自己</p></article><article class="feature"><span class="index">03</span><h3>重要場合服裝</h3><p>從色調到細節搭配為婚禮與典禮等場合建立完整的穿著方向</p></article></div></section>
 <section class="fabric-section"><div class="container split"><div class="fabric-photo"><img src="../assets/images/supplied-09.webp" alt="不同色系與面料質感的西服陳列" class="" loading="lazy" decoding="async" width="1200" height="900"></div><div><p class="eyebrow">DETAILS MAKE THE DIFFERENCE</p><h2>你的選擇<br>藏在每一處細節</h2><p>面料的觸感、光澤與垂墜感，會改變同一個版型的表情。除了外觀，也一起考量季節、穿著頻率與整理方式。</p><dl class="detail-list"><div><dt>版型與比例</dt><dd>肩線、衣長與整體輪廓，配合身形與穿著習慣討論。</dd></div><div><dt>面料與配色</dt><dd>從使用場合出發，挑選適合的顏色、紋理與手感。</dd></div><div><dt>細節搭配</dt><dd>領型、鈕釦與內搭配件，讓整體風格自然一致。</dd></div></dl></div></div></section>
 <section class="section container"><div class="section-heading"><p class="eyebrow">YOUR TAILORING JOURNEY</p><h2>從想法到穿上身的那一刻</h2></div><ol class="steps"><li><span class="step-number">01</span><h3>聊聊需求</h3><p>說明場合、品項、穿著習慣與希望完成的時間</p></li><li><span class="step-number">02</span><h3>確認方向</h3><p>討論款式、面料及報價確認合適的製作內容</p></li><li><span class="step-number">03</span><h3>量身製作</h3><p>依確認方案量身安排製作與必要的試穿調整</p></li><li><span class="step-number">04</span><h3>完成交付</h3><p>確認穿著狀態了解照護與後續修改的聯繫方式</p></li></ol></section>
